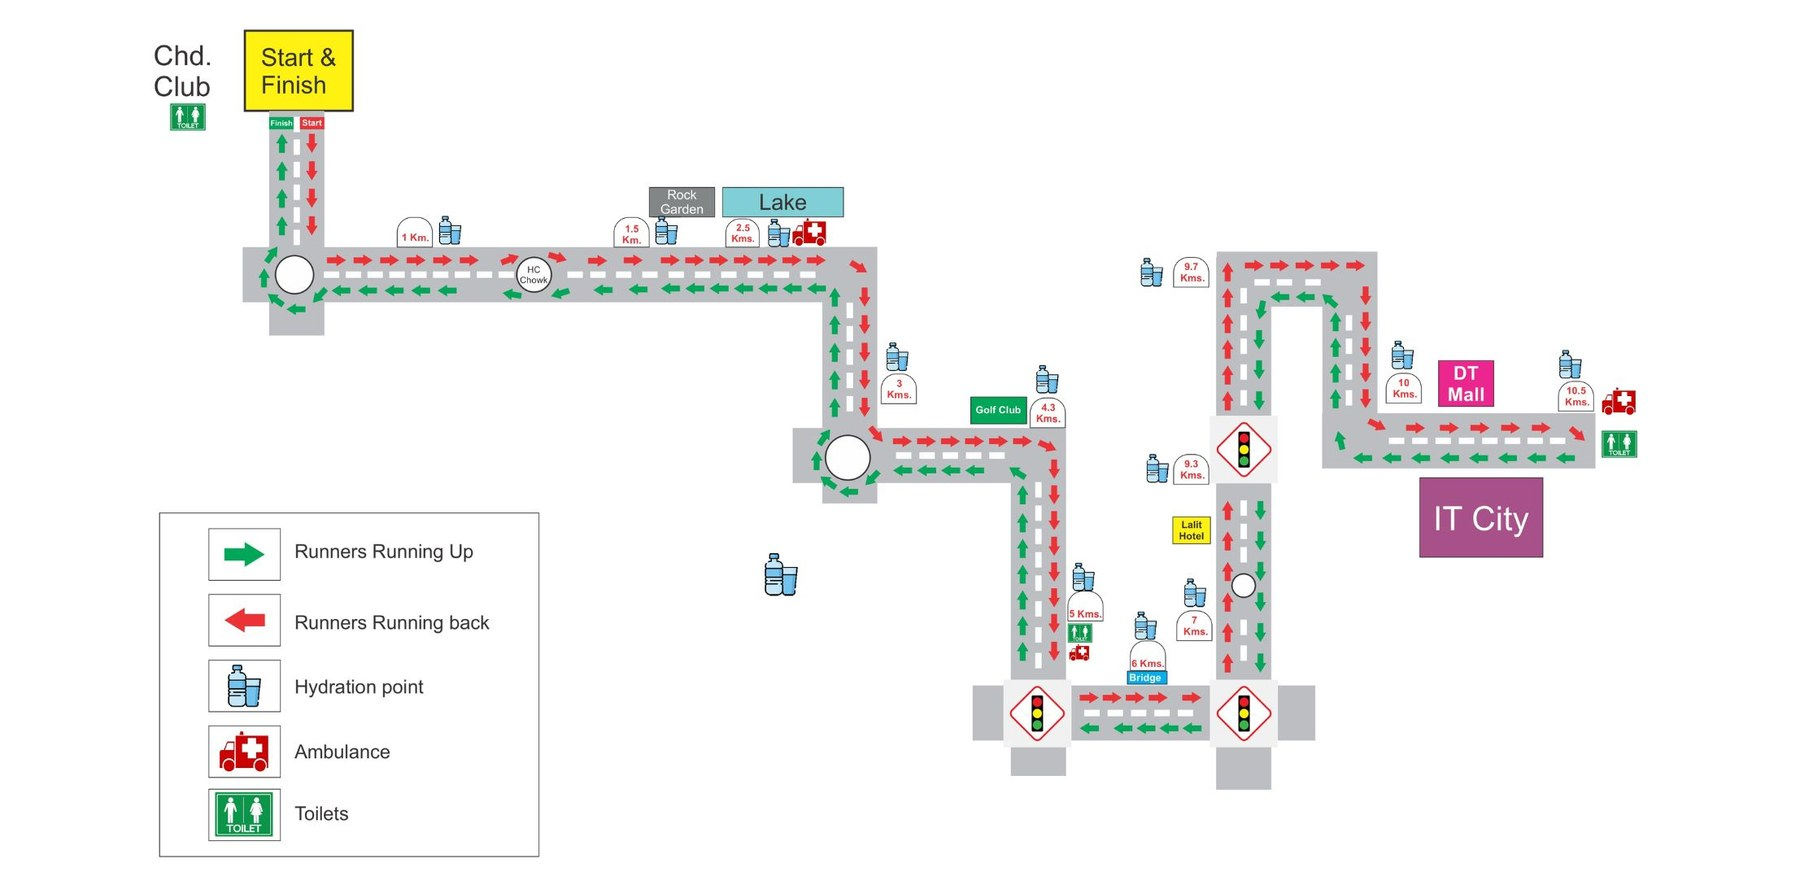
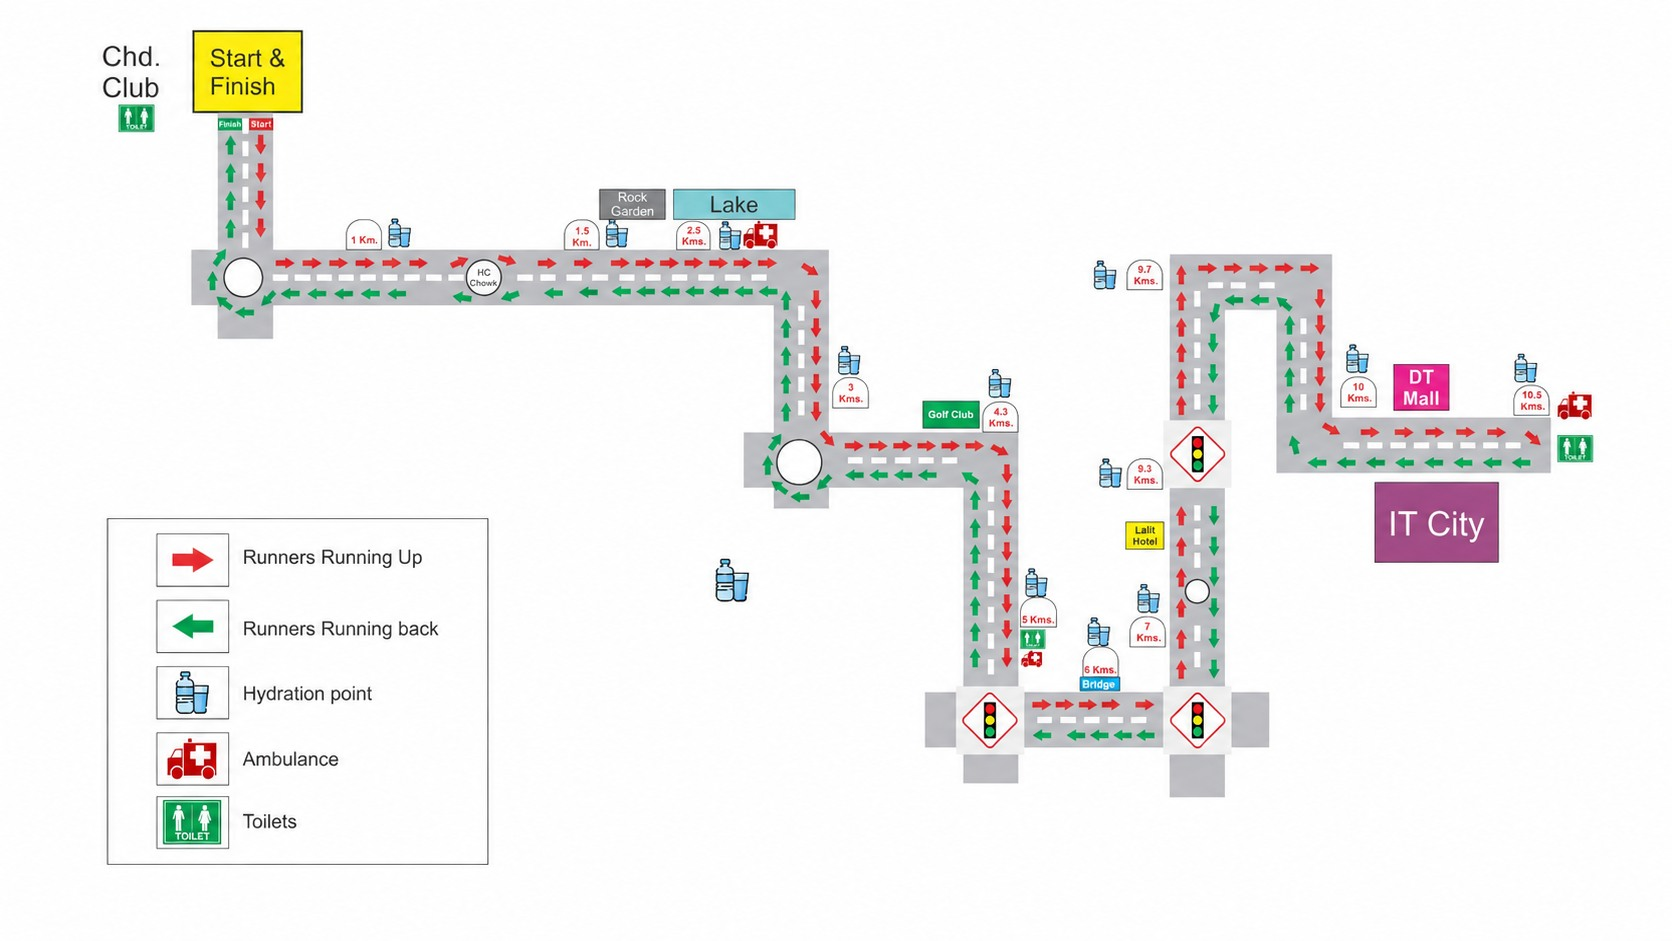
Update category and fee copy, new route map, and make the form easier to fill
Content, as asked:
- Categories intro now reads "All races start from Sector 1 Chandigarh."
- Disabled Category is "Open for all age groups (M/W)" in both places it said
  the same thing.
- New route map, under its own heading "Route Plan for The Flying Sikh Milkha
  Singh Legacy Marathon". Kept at its native 1672px rather than upscaled, since
  enlarging adds no detail and only weight: 994KB PNG down to 183KB. The alt
  text is rewritten to match the new map, whose arrow colours are the other way
  round from the old one — red out, green back.
- Entry fees no longer says "race kit"; it names the race T-shirt and finisher
  certificate, matching the list beside it.

The form was hard to read, so the things a person actually looks at got bigger:
labels from .88rem to 1rem and bolder, inputs from 48px to 54px at 1.02rem, and
hints and errors up from .78rem — small enough to be missed by exactly the
person who needs them. "Fields marked * are required" is now a saffron note
instead of grey small print. Fields respond to hover and carry a focus ring, and
the category tiles lift on hover like the race cards.

Enlarging the fields caused a real regression, caught on a 375px screen: a
fieldset will not shrink below its contents' intrinsic minimum width, so the
whole block burst 14px out of the card and the page scrolled sideways.
min-width:0 on the fieldset and its grid children fixes it. No overflow now.

Changed region(s): [[0.0622, 0.0305, 0.9641, 0.9153], [0.0622, 0.5492, 0.2799, 0.9763], [0.4043, 0.5797, 0.4665, 0.6712]]

diff --git a/assets/css/styles.css b/assets/css/styles.css
@@ -697,7 +697,15 @@ body::before {
 }
 
 /* ---------- Route ---------- */
-.route { margin: 30px 0 0; }
+/* Names what the map is, so it is not just a picture dropped under the cards. */
+.route__title {
+  margin: 38px 0 14px;
+  font-size: clamp(1.1rem, 2.2vw, 1.35rem);
+  font-weight: 800; color: var(--navy);
+  text-align: center;
+}
+
+.route { margin: 0; }
 /* Solid border now the real map is in — the dashed one read as a placeholder. */
 .route img {
   width: 100%; border-radius: var(--radius-lg);
@@ -787,19 +795,19 @@ body::before {
 
 /* ---------- Registration form ---------- */
 .reg {
-  max-width: 860px; margin: 0 auto; text-align: left;
+  max-width: 900px; margin: 0 auto; text-align: left;
   background: #fff;
   border: 1px solid var(--border);
   border-top: 4px solid var(--saffron);
   border-radius: var(--radius-lg);
-  box-shadow: var(--shadow-soft);
-  padding: 30px 30px 26px;
+  box-shadow: var(--shadow);
+  padding: 34px 34px 30px;
 }
 .reg__block { border: 0; margin: 0 0 26px; padding: 0; }
 .reg__legend {
-  padding: 0; margin-bottom: 14px;
-  font-size: var(--fs-xs); font-weight: 800; letter-spacing: .13em;
+  font-size: 1.06rem; font-weight: 800; letter-spacing: .04em;
   text-transform: uppercase; color: var(--green-deep);
+  margin-bottom: 16px; padding: 0;
 }
 
 /* Category tiles */
@@ -810,9 +818,10 @@ body::before {
 }
 .reg__cat-body {
   display: flex; flex-direction: column; gap: 3px;
-  padding: 14px 16px; height: 100%;
+  padding: 16px 18px; height: 100%;
   border: 1px solid var(--border); border-radius: var(--radius);
-  transition: border-color .18s var(--ease), background .18s var(--ease);
+  transition: border-color .18s var(--ease), background .18s var(--ease),
+              box-shadow .18s var(--ease), transform .18s var(--ease);
 }
 .reg__cat-body b { font-size: var(--fs-md); font-weight: 700; color: var(--navy); }
 .reg__cat-body em {
@@ -821,7 +830,11 @@ body::before {
 }
 .reg__cat-fee { margin-top: 6px; font-size: var(--fs-md); font-weight: 800; color: var(--green-deep); }
 .reg__cat-fee s { color: var(--ink-mute); font-weight: 500; font-size: .82rem; margin-right: 5px; }
-.reg__cat:hover .reg__cat-body { border-color: #C9D0DA; }
+.reg__cat:hover .reg__cat-body {
+  border-color: var(--saffron);
+  box-shadow: var(--shadow);
+  transform: translateY(-2px);
+}
 .reg__cat input:checked + .reg__cat-body {
   border-color: var(--saffron-deep); background: var(--bg-saffron);
 }
@@ -830,28 +843,52 @@ body::before {
 }
 
 /* Fields */
-.reg__grid { display: grid; grid-template-columns: repeat(2, minmax(0, 1fr)); gap: 16px; }
-.reg__field { margin: 0; display: flex; flex-direction: column; gap: 6px; }
+/* A fieldset will not shrink below the intrinsic minimum width of its contents
+   unless told to — it is the one element that ignores its parent's width. With
+   the larger fields, that minimum grew past a 375px screen and the whole block
+   pushed out of the card. min-width:0 lets it behave like any other box. */
+.reg__block { min-width: 0; }
+
+.reg__grid { display: grid; grid-template-columns: repeat(2, minmax(0, 1fr)); gap: 20px; }
+/* Grid and flex children default to min-width:auto, which is the same trap one
+   level down: a wide control would stretch its column rather than shrink. */
+.reg__grid > *, .reg__field { min-width: 0; }
+.reg__field input, .reg__field select { min-width: 0; width: 100%; }
+.reg__field { margin: 0; display: flex; flex-direction: column; gap: 7px; }
 .reg__field--wide { grid-column: 1 / -1; }
-.reg__field label { font-size: var(--fs-sm); font-weight: 600; color: var(--navy); }
-.reg__field label span { font-weight: 500; color: var(--ink-mute); }
+
+/* Labels were --fs-sm (.88rem) and read as small print above a large control.
+   1rem is the size of ordinary body text, which is what a question deserves. */
+.reg__field label { font-size: 1rem; font-weight: 700; color: var(--navy); }
+.reg__field label span { font-weight: 500; font-size: .92rem; color: var(--ink-mute); }
 /* One fixed height for every control. Left to min-height, text inputs came out
    at 49px (they inherit the body's 1.75 line-height) while selects sat at 46. */
 .reg__field input,
 .reg__field select {
-  height: 48px; padding: 0 13px;
-  font: inherit; font-size: var(--fs-md); line-height: 1.4; color: var(--ink);
+  height: 54px; padding: 0 15px;
+  font: inherit; font-size: 1.02rem; line-height: 1.4; color: var(--ink);
   background: #fff;
-  border: 1px solid var(--border); border-radius: var(--radius);
-  transition: border-color .18s var(--ease);
+  border: 1.5px solid var(--border); border-radius: var(--radius);
+  transition: border-color .18s var(--ease), box-shadow .18s var(--ease);
 }
-.reg__field input:focus, .reg__field select:focus { border-color: var(--saffron-deep); outline: none; }
+/* Hovering says "this is where you type"; the focus ring says "this is where
+   you are". Without either, a long form reads as a wall of empty boxes. */
+.reg__field input:hover,
+.reg__field select:hover { border-color: #C9D0DA; }
+.reg__field input:focus,
+.reg__field select:focus {
+  border-color: var(--saffron-deep);
+  box-shadow: 0 0 0 3px rgba(232, 101, 11, .14);
+  outline: none;
+}
+/* A filled field steps back so the empty ones stand out as what is left. */
+.reg__field input:not(:placeholder-shown):not([type="file"]) { border-color: #CFD6E2; }
 
 /* File input: the native control is taller than a text input by default, so
    pin it to the same 46px and shrink the button to fit inside that. */
 .reg__field input[type="file"] {
-  height: 48px; padding: 0 12px;
-  font-size: var(--fs-md); line-height: 46px; cursor: pointer;
+  height: 54px; padding: 0 14px;
+  font-size: 1.02rem; line-height: 52px; cursor: pointer;
 }
 .reg__field input[type="file"]::file-selector-button {
   height: 30px; margin: 0 12px 0 0; padding: 0 14px;
@@ -865,8 +902,22 @@ body::before {
 }
 
 /* Required-field key and marker */
-.reg__required-note { margin: -4px 0 14px; font-size: var(--fs-xs); color: var(--ink-mute); }
-.reg__req { color: #C0392B; font-weight: 700; }
+/* This tells someone how to read the whole form, so it is set as a note they
+   will actually notice rather than grey small print under the heading. */
+.reg__required-note {
+  margin: 0 0 20px;
+  padding: 10px 14px;
+  border-left: 3px solid var(--saffron-deep);
+  border-radius: 0 var(--radius) var(--radius) 0;
+  background: var(--bg-saffron);
+  font-size: .92rem; color: var(--ink);
+}
+.reg__req { color: #C0392B; font-weight: 800; font-size: 1.05em; }
+
+/* Hints and errors were --fs-xs (.78rem), small enough to be missed by exactly
+   the person who needs them. */
+.reg__hint { font-size: .86rem; }
+.reg__err  { font-size: .88rem; font-weight: 600; }
 .reg__field [aria-invalid="true"] { border-color: #C0392B; }
 
 .reg__err { display: block; margin: 0; font-size: var(--fs-xs); color: #C0392B; }
@@ -879,12 +930,12 @@ body::before {
    the value still reads as an answer rather than an empty box. */
 .reg__age {
   display: flex; align-items: center;
-  height: 48px;
-  padding: 0 13px;
-  border: 1px solid var(--border);
+  height: 54px;
+  padding: 0 15px;
+  border: 1.5px solid var(--border);
   border-radius: var(--radius);
   background: #fff;
-  font-size: var(--fs-md); font-weight: 400;
+  font-size: 1.02rem; font-weight: 400;
   color: var(--ink-mute);
 }
 .reg__age.is-set { color: var(--navy); font-weight: 700; }

diff --git a/index.html b/index.html
@@ -32,7 +32,7 @@
 <link rel="preconnect" href="https://fonts.googleapis.com" />
 <link rel="preconnect" href="https://fonts.gstatic.com" crossorigin />
 <link href="https://fonts.googleapis.com/css2?family=Archivo:wght@400;500;600;700;800&display=swap" rel="stylesheet" />
-<link rel="stylesheet" href="assets/css/styles.css?v=20260904-7" />
+<link rel="stylesheet" href="assets/css/styles.css?v=20260905-1" />
 
 <!-- Event schema: this is what makes Google show your date + venue in search results. -->
 <script type="application/ld+json">
@@ -343,8 +343,7 @@
     <p class="section__eyebrow">Race Categories &amp; Route</p>
     <h2 class="section__title">Choose Your <span class="accent">Distance</span></h2>
     <p class="section__sub">
-      Choose your challenge and run for a cause. All races start from the ground opposite
-      Chandigarh Club, Sector 1.
+      Choose your challenge and run for a cause. All races start from Sector 1 Chandigarh.
     </p>
 
     <div class="race-grid">
@@ -456,7 +455,7 @@
         </header>
 
         <ul class="race-card__tags">
-          <li>Open for all age groups</li>
+          <li>Open for all age groups (M/W)</li>
         </ul>
 
         <ul class="race-card__times">
@@ -473,7 +472,7 @@
         <div class="race-card__ages">
           <h4>Age Categories:</h4>
           <ul>
-            <li>Open for all age groups</li>
+            <li>Open for all age groups (M/W)</li>
           </ul>
         </div>
 
@@ -485,13 +484,15 @@
 
     </div>
 
+    <h3 class="route__title">Route Plan for The Flying Sikh Milkha Singh Legacy Marathon</h3>
+
     <figure class="route">
       <img src="images/route-map.jpg"
-           alt="Race route map: start and finish at the ground opposite Chandigarh Club, out past Rock Garden and the Lake, through the Golf Club and Bridge, turning at DT Mall and IT City. Hydration points, ambulances and toilets are marked along the way, with distance markers from 1 km to 10.5 km."
-           width="1800" height="885" loading="lazy" decoding="async" />
+           alt="Route map. Start and finish beside Chandigarh Club, out past Rock Garden and the Lake through HC Chowk, on by the Golf Club and the Bridge, then round to DT Mall and IT City. Red arrows show the outward leg and green the return. Hydration points, ambulances, toilets and traffic signals are marked, with distance markers from 1 km to 10.5 km."
+           width="1672" height="941" loading="lazy" decoding="async" />
       <figcaption>
-        Official route map. Green arrows show the outward leg, red the return.
-        Hydration points, ambulances and toilets are marked throughout.
+        Red arrows show the outward leg, green the return. Hydration points,
+        ambulances and toilets are marked throughout.
       </figcaption>
     </figure>
 
@@ -519,8 +520,8 @@
       <div class="fees__main">
         <h2 class="section__title">Entry <span class="accent">Fees</span></h2>
         <p class="section__sub">
-          One fee per runner, whichever distance you choose. Every entry includes your race kit
-          and finisher medal.
+          One fee per runner, whichever distance you choose. Every entry includes your race
+          T-shirt, finisher certificate and finisher medal.
         </p>
 
         <table class="fee-table">
@@ -1004,7 +1005,7 @@
   <svg viewBox="0 0 24 24" aria-hidden="true"><path d="M12 19V5M5 12l7-7 7 7"/></svg>
 </button>
 
-<script src="assets/js/main.js?v=20260904-7" defer></script>
-<script src="assets/js/register.js?v=20260904-7" defer></script>
+<script src="assets/js/main.js?v=20260905-1" defer></script>
+<script src="assets/js/register.js?v=20260905-1" defer></script>
 </body>
 </html>

diff --git a/privacy-policy.html b/privacy-policy.html
@@ -11,7 +11,7 @@
 <link rel="preconnect" href="https://fonts.googleapis.com" />
 <link rel="preconnect" href="https://fonts.gstatic.com" crossorigin />
 <link href="https://fonts.googleapis.com/css2?family=Archivo:wght@400;500;600;700;800&display=swap" rel="stylesheet" />
-<link rel="stylesheet" href="assets/css/styles.css?v=20260904-7" />
+<link rel="stylesheet" href="assets/css/styles.css?v=20260905-1" />
 </head>
 <body>
 

diff --git a/refund-policy.html b/refund-policy.html
@@ -11,7 +11,7 @@
 <link rel="preconnect" href="https://fonts.googleapis.com" />
 <link rel="preconnect" href="https://fonts.gstatic.com" crossorigin />
 <link href="https://fonts.googleapis.com/css2?family=Archivo:wght@400;500;600;700;800&display=swap" rel="stylesheet" />
-<link rel="stylesheet" href="assets/css/styles.css?v=20260904-7" />
+<link rel="stylesheet" href="assets/css/styles.css?v=20260905-1" />
 </head>
 <body>
 

diff --git a/terms-conditions.html b/terms-conditions.html
@@ -11,7 +11,7 @@
 <link rel="preconnect" href="https://fonts.googleapis.com" />
 <link rel="preconnect" href="https://fonts.gstatic.com" crossorigin />
 <link href="https://fonts.googleapis.com/css2?family=Archivo:wght@400;500;600;700;800&display=swap" rel="stylesheet" />
-<link rel="stylesheet" href="assets/css/styles.css?v=20260904-7" />
+<link rel="stylesheet" href="assets/css/styles.css?v=20260905-1" />
 </head>
 <body>
 

diff --git a/admin/auth.php b/admin/auth.php
@@ -175,7 +175,7 @@ function require_can(string $permission): void
         no_store();
         header('Content-Type: text/html; charset=utf-8');
         echo '<!doctype html><meta charset="utf-8"><title>Not allowed</title>'
-           . '<link rel="stylesheet" href="assets/admin.css?v=20260904-7">'
+           . '<link rel="stylesheet" href="assets/admin.css?v=20260905-1">'
            . '<main class="wrap"><p class="empty">'
            . 'Your account does not have access to that. '
            . '<a href="index.php">Back to registrations</a>.'

diff --git a/setup.php b/setup.php
@@ -411,7 +411,7 @@ $e = static function (string $s): string {
 <meta name="viewport" content="width=device-width, initial-scale=1">
 <meta name="robots" content="noindex, nofollow">
 <title>Setup &middot; Milkha Singh Legacy Marathon</title>
-<link rel="stylesheet" href="admin/assets/admin.css?v=20260904-7">
+<link rel="stylesheet" href="admin/assets/admin.css?v=20260905-1">
 <style>
   .setup { max-width: 720px; margin: 40px auto; padding: 0 20px 80px; }
   .setup h1 { color: var(--navy); margin: 0 0 6px; }

diff --git a/admin/index.php b/admin/index.php
@@ -78,7 +78,7 @@ foreach (['gender', 'tshirt', 'city', 'age_min', 'age_max', 'id_proof'] as $k) {
 <meta name="viewport" content="width=device-width, initial-scale=1">
 <meta name="robots" content="noindex, nofollow">
 <title>Registrations &middot; Marathon Admin</title>
-<link rel="stylesheet" href="assets/admin.css?v=20260904-7">
+<link rel="stylesheet" href="assets/admin.css?v=20260905-1">
 </head>
 <body>
 

diff --git a/admin/hash-tool.php b/admin/hash-tool.php
@@ -34,7 +34,7 @@ if (($_SERVER['REQUEST_METHOD'] ?? '') === 'POST') {
 <meta name="viewport" content="width=device-width, initial-scale=1">
 <meta name="robots" content="noindex, nofollow">
 <title>Create admin password</title>
-<link rel="stylesheet" href="assets/admin.css?v=20260904-7">
+<link rel="stylesheet" href="assets/admin.css?v=20260905-1">
 </head>
 <body class="login-body">
 <main class="login">

diff --git a/admin/password.php b/admin/password.php
@@ -53,7 +53,7 @@ if (($_SERVER['REQUEST_METHOD'] ?? '') === 'POST' && !$isBootstrap) {
 <meta name="viewport" content="width=device-width, initial-scale=1">
 <meta name="robots" content="noindex, nofollow">
 <title>Your password &middot; Marathon Admin</title>
-<link rel="stylesheet" href="assets/admin.css?v=20260904-7">
+<link rel="stylesheet" href="assets/admin.css?v=20260905-1">
 </head>
 <body>
 

diff --git a/admin/view.php b/admin/view.php
@@ -61,7 +61,7 @@ if (!$r) {
 <meta name="viewport" content="width=device-width, initial-scale=1">
 <meta name="robots" content="noindex, nofollow">
 <title><?= isset($notFound) ? 'Not found' : h($r['full_name']) ?> &middot; Marathon Admin</title>
-<link rel="stylesheet" href="assets/admin.css?v=20260904-7">
+<link rel="stylesheet" href="assets/admin.css?v=20260905-1">
 </head>
 <body>
 

diff --git a/admin/settings.php b/admin/settings.php
@@ -175,7 +175,7 @@ function secret_state($v): string
 <meta name="viewport" content="width=device-width, initial-scale=1">
 <meta name="robots" content="noindex, nofollow">
 <title>Settings &middot; Marathon Admin</title>
-<link rel="stylesheet" href="assets/admin.css?v=20260904-7">
+<link rel="stylesheet" href="assets/admin.css?v=20260905-1">
 </head>
 <body>
 
